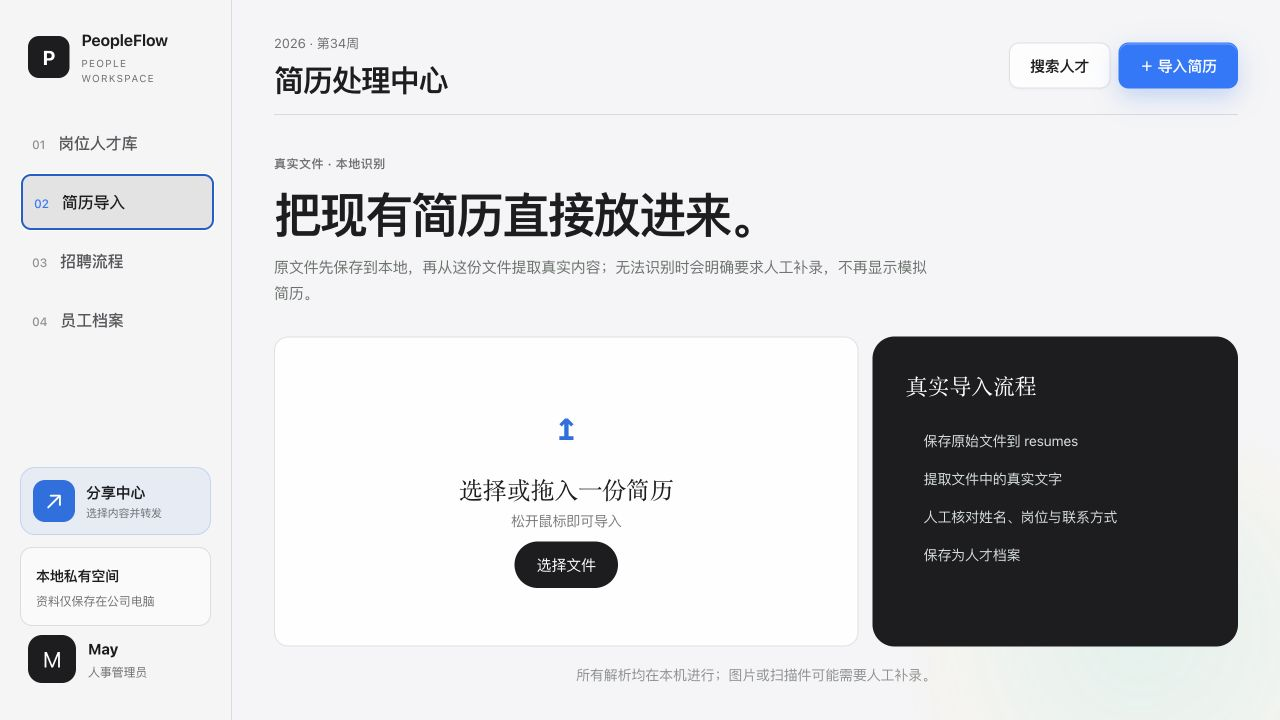
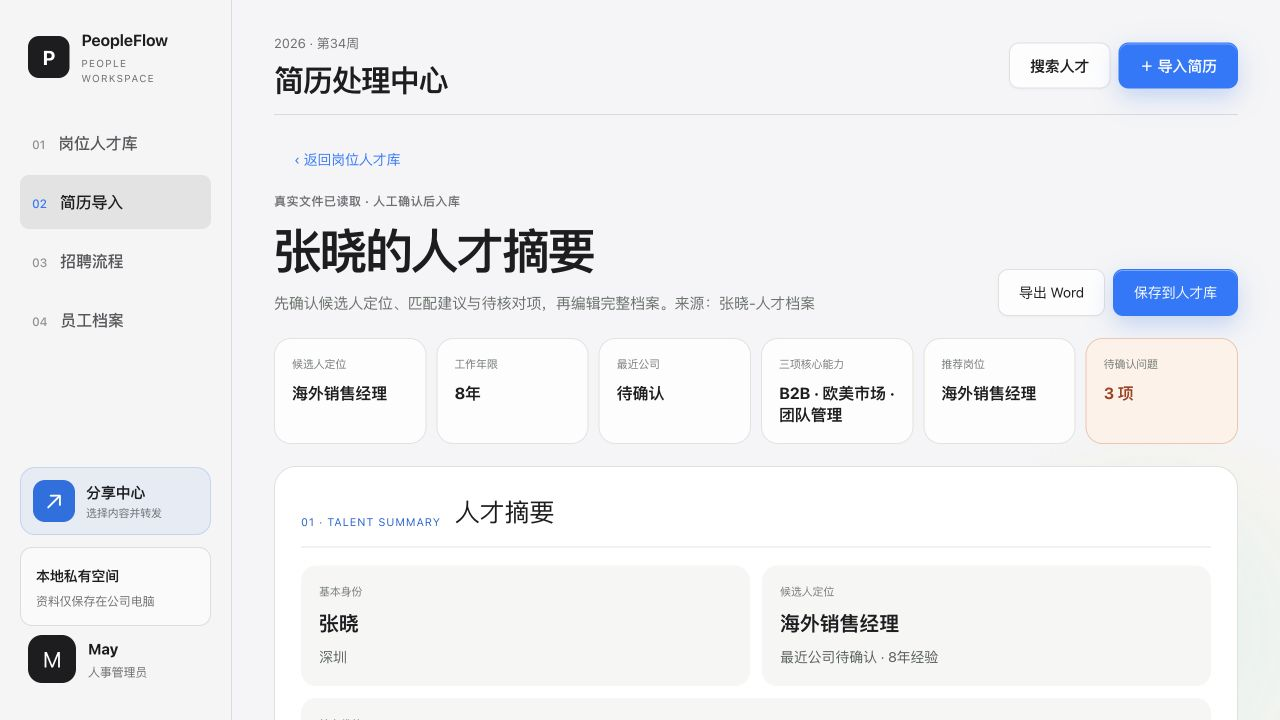
Prioritize resume review decisions and add home navigation

diff --git a/app/preview-v2.css b/app/preview-v2.css
@@ -2,9 +2,13 @@
 .v2-job-creator{width:min(720px,100%);background:rgba(250,250,247,.97);backdrop-filter:blur(28px);border:1px solid rgba(255,255,255,.86);border-radius:28px;box-shadow:0 34px 90px rgba(8,20,14,.28);padding:32px;box-sizing:border-box}.v2-job-creator>header{display:flex;justify-content:space-between;align-items:flex-start}.v2-job-creator h2{font:500 38px/1.08 Georgia,"Songti SC",serif;margin:8px 0}.v2-job-creator header p{margin:0;color:#707771;font-size:14px}.v2-job-creator-form{display:grid;grid-template-columns:1fr 1fr;gap:14px;margin-top:26px}.v2-job-creator-form label{font-size:13px;font-weight:700;color:#525a54}.v2-job-creator-form label.wide{grid-column:1/-1}.v2-job-creator-form input,.v2-job-creator-form select{display:block;width:100%;min-height:48px;box-sizing:border-box;border:1px solid #d4d8d4;border-radius:13px;background:#fff;padding:0 14px;margin-top:8px;font-size:15px;outline:0}.v2-job-creator-form input:focus,.v2-job-creator-form select:focus{border-color:#174c3a;box-shadow:0 0 0 3px rgba(23,76,58,.1)}.v2-job-preview{display:grid;gap:6px;margin-top:20px;padding:18px;border-radius:16px;background:#e9efeb;border:1px solid #d5ded8}.v2-job-preview small{font-size:11px;color:#667069}.v2-job-preview b{font:500 22px Georgia,"Songti SC",serif}.v2-job-preview span{font-size:13px;color:#626b65}.v2-job-creator>footer{display:flex;justify-content:flex-end;gap:10px;border-top:1px solid #dcdfdc;margin-top:24px;padding-top:20px}.v2-job-creator>footer button{min-height:44px;border:1px solid #d1d5d1;background:#fff;border-radius:22px;padding:0 20px;font-size:14px;font-weight:700}.v2-job-creator>footer button.dark{background:#174c3a;color:#fff;border-color:#174c3a}.v2-job-creator>footer button:disabled{opacity:.4}
 .v2-overlay.search{background:rgba(34,39,45,.38);backdrop-filter:blur(14px) saturate(120%);-webkit-backdrop-filter:blur(14px) saturate(120%)}.v2-job-creator{background:linear-gradient(145deg,rgba(255,255,255,.86),rgba(246,248,251,.72));backdrop-filter:blur(38px) saturate(160%);-webkit-backdrop-filter:blur(38px) saturate(160%);border:1px solid rgba(255,255,255,.92);box-shadow:0 32px 90px rgba(30,40,55,.18),inset 0 1px 0 rgba(255,255,255,.96);font-family:-apple-system,BlinkMacSystemFont,"SF Pro Display","PingFang SC","Microsoft YaHei",sans-serif}.v2-job-creator h2{font-family:inherit;font-weight:650;letter-spacing:-.04em}.v2-job-creator .eyebrow{color:#6e6e73}.v2-job-creator-form input{background:rgba(255,255,255,.68);border-color:rgba(60,60,67,.14);box-shadow:inset 0 1px 0 rgba(255,255,255,.8)}.v2-job-creator-form input:focus{border-color:rgba(0,113,227,.58);box-shadow:0 0 0 4px rgba(0,113,227,.10)}.v2-color-picker{grid-column:1/-1;border:0;padding:0;margin:0}.v2-color-picker legend{font-size:13px;font-weight:700;color:#525a54;margin-bottom:10px}.v2-color-picker>div{display:grid;grid-template-columns:repeat(8,1fr);gap:8px}.v2-color-picker button{display:grid;place-items:center;gap:7px;min-height:68px;border:1px solid rgba(60,60,67,.10);border-radius:14px;background:rgba(255,255,255,.52);color:#5f6368;font-size:11px}.v2-color-picker button:hover{background:rgba(255,255,255,.82)}.v2-color-picker button.selected{border-color:rgba(0,113,227,.62);box-shadow:0 0 0 3px rgba(0,113,227,.10);background:rgba(255,255,255,.9);color:#1d1d1f}.v2-color-picker i{width:24px;height:24px;border-radius:50%;box-shadow:inset 0 0 0 1px rgba(0,0,0,.08)}.v2-color-picker .graphite i{background:#636366}.v2-color-picker .blue i{background:#0a84ff}.v2-color-picker .sky i{background:#64d2ff}.v2-color-picker .mint i{background:#63e6be}.v2-color-picker .lime i{background:#30d158}.v2-color-picker .gold i{background:#ffd60a}.v2-color-picker .coral i{background:#ff9f0a}.v2-color-picker .violet i{background:#bf5af2}.v2-job-preview{position:relative;overflow:hidden;background:rgba(255,255,255,.54);border-color:rgba(60,60,67,.10);padding-left:23px}.v2-job-preview:before{content:"";position:absolute;left:0;top:0;bottom:0;width:5px;background:#636366}.v2-job-preview.blue:before{background:#0a84ff}.v2-job-preview.sky:before{background:#64d2ff}.v2-job-preview.mint:before{background:#63e6be}.v2-job-preview.lime:before{background:#30d158}.v2-job-preview.gold:before{background:#ffd60a}.v2-job-preview.coral:before{background:#ff9f0a}.v2-job-preview.violet:before{background:#bf5af2}.v2-job-creator>footer button{background:rgba(255,255,255,.66);border-color:rgba(60,60,67,.14)}.v2-job-creator>footer button.dark{background:#1d1d1f;border-color:#1d1d1f}.v2-job-creator>footer button.dark:disabled{background:#d1d1d6;border-color:#d1d1d6;color:#fff;opacity:1}.v2-job.graphite:before{background:#636366}.v2-job.sky:before{background:#64d2ff}.v2-job.mint:before{background:#63e6be}.v2-job.gold:before{background:#ffd60a}.v2-job.violet:before{background:#bf5af2}@media(max-width:760px){.v2-color-picker>div{grid-template-columns:repeat(4,1fr)}}
 .v2-real-drop.dragging{border-color:#d84b11;background:#fff2e9;transform:scale(1.01);box-shadow:0 12px 35px rgba(216,75,17,.16)}
+.v2-brand{width:100%;border:0;background:transparent;text-align:left;cursor:pointer;color:inherit}.v2-brand:hover strong{color:#0a66d8}.v2-brand:focus-visible{outline:3px solid rgba(10,102,216,.22);outline-offset:6px;border-radius:12px}
 .v2-resume-start{max-width:1050px;margin:35px auto}.v2-resume-copy{max-width:660px}.v2-resume-copy h2,.v2-editor-head h2,.v2-pipeline-intro h2,.v2-empty h2{font:500 48px/1.08 Georgia,"Songti SC",serif;margin:14px 0}.v2-resume-copy p,.v2-editor-head p,.v2-pipeline-intro p,.v2-empty p{color:#687069;line-height:1.75}.v2-import-card{display:grid;grid-template-columns:1.6fr 1fr;gap:14px;margin-top:30px}.v2-real-drop{min-height:310px;border:2px dashed #a9aea9;border-radius:22px;background:white;display:flex;flex-direction:column;justify-content:center;align-items:center;text-align:center;cursor:pointer}.v2-real-drop input{display:none}.v2-real-drop>b{font-size:40px;color:#d84b11}.v2-real-drop h3{font:500 24px Georgia,"Songti SC",serif;margin:17px 0 5px}.v2-real-drop p{font-size:11px;color:#777}.v2-real-drop span{background:#111;color:#fff;border-radius:25px;padding:12px 22px;margin-top:10px}.v2-file-ready{background:#173f32;color:white;border-radius:22px;padding:33px}.v2-file-ready b{font:500 22px Georgia,"Songti SC",serif}.v2-file-ready ul{padding-left:18px;margin-top:30px}.v2-file-ready li{margin:17px 0;font-size:12px;color:#d7e1dc}.v2-privacy{display:block;text-align:center;color:#8b918c;margin-top:18px}
 .v2-real-drop.busy{pointer-events:none;opacity:.72}.v2-import-error,.v2-parse-warning{margin-top:14px;border:1px solid #f2c5b7;background:#fff1ec;color:#a73512;border-radius:14px;padding:13px 16px;font-size:11px}.v2-paper.actual{overflow:auto}.v2-paper.actual>pre{white-space:pre-wrap;word-break:break-word;font:10px/1.65 -apple-system,BlinkMacSystemFont,"PingFang SC",sans-serif;margin-top:22px}.v2-form-grid textarea{min-height:150px}
 .v2-editor-page{max-width:1200px;margin:auto}.v2-editor-head{display:flex;justify-content:space-between;align-items:end;margin-bottom:22px}.v2-editor-head>div:last-child{display:flex;gap:8px}.v2-editor-head button,.v2-tag-drawer footer button{border:1px solid var(--v2-line);background:white;border-radius:25px;padding:12px 20px}.v2-editor-head .dark,.v2-tag-drawer .dark{background:#111;color:#fff;border-color:#111}.v2-editor-grid{display:grid;grid-template-columns:300px 1fr;gap:16px}.v2-original{background:#1c211e;color:#fff;border-radius:20px;padding:24px}.v2-original>small{letter-spacing:.12em;color:#b5bcb7}.v2-paper{background:#f5f1e8;color:#171917;min-height:560px;margin-top:16px;padding:30px 25px;box-shadow:0 13px 30px rgba(0,0,0,.22)}.v2-paper>b{font:500 28px Georgia,"Songti SC",serif}.v2-paper p{font-size:11px;line-height:1.7}.v2-paper h4{margin-top:25px}.v2-paper hr{border:0;border-top:1px solid #bbb8b0;margin:25px 0}.v2-form{background:#fff;border-radius:20px;padding:27px}.v2-form-title{display:flex;justify-content:space-between;align-items:center;border-bottom:1px solid var(--v2-line);padding-bottom:18px}.v2-form-title h3{margin:0;font:500 25px Georgia,"Songti SC",serif}.v2-form-title span{font-size:10px;background:#dce9e2;border-radius:20px;padding:7px 10px}.v2-form-grid{display:grid;grid-template-columns:1fr 1fr;gap:15px;margin-top:22px}.v2-form-grid label{font-size:10px;color:#6c736e}.v2-form-grid input,.v2-form-grid select,.v2-form-grid textarea{display:block;width:100%;box-sizing:border-box;border:1px solid #d6d9d5;border-radius:10px;background:#fafaf8;padding:12px;margin-top:7px;color:#151815;font:inherit}.v2-form-grid textarea{min-height:82px;resize:vertical}.v2-form-grid .wide{grid-column:1/-1}.v2-selected-tags{display:flex;justify-content:space-between;align-items:end;border-top:1px solid var(--v2-line);margin-top:22px;padding-top:20px}.v2-selected-tags small{color:#727873}.v2-selected-tags div div{display:flex;gap:6px;margin-top:10px}.v2-selected-tags span{background:#dce9e2;border-radius:15px;padding:7px 10px;font-size:10px}.v2-selected-tags>button{border:1px solid #cdd1cd;background:white;border-radius:20px;padding:10px 14px}
+.v2-review-summary{display:grid;grid-template-columns:repeat(6,minmax(0,1fr));gap:10px;margin:18px 0 22px}.v2-review-summary article{min-height:94px;padding:17px;border:1px solid #dfe3df;border-radius:17px;background:rgba(255,255,255,.84);box-sizing:border-box}.v2-review-summary small,.v2-review-summary b{display:block}.v2-review-summary small{font-size:11px;color:#737b75}.v2-review-summary b{margin-top:10px;font-size:16px;line-height:1.35}.v2-review-summary .attention{background:#fff1e9;border-color:#f1c4b1;color:#a63b16}.v2-review-summary .complete{background:#eaf3ee;color:#174c3a}.v2-review-section{margin-top:16px;padding:26px;border:1px solid #dde1dd;border-radius:22px;background:#fff}.v2-review-section>header{display:flex;align-items:end;gap:14px;border-bottom:1px solid #e1e4e1;padding-bottom:16px;margin-bottom:18px}.v2-review-section>header small{color:#0a66d8;font-size:11px;letter-spacing:.08em}.v2-review-section>header h3{font-size:25px;margin:0}.v2-review-section>header>span{margin-left:auto;font-size:12px;color:#a63b16}.v2-identity-grid{display:grid;grid-template-columns:1fr 1fr;gap:12px}.v2-identity-grid>div{padding:18px;border-radius:15px;background:#f6f7f5}.v2-identity-grid .wide{grid-column:1/-1}.v2-identity-grid span,.v2-identity-grid b{display:block}.v2-identity-grid span{font-size:11px;color:#747c76}.v2-identity-grid b{font-size:20px;margin-top:8px}.v2-identity-grid p{font-size:14px;line-height:1.6;margin:8px 0 0;color:#545d56}.v2-skill-pills{display:flex;gap:8px;flex-wrap:wrap}.v2-skill-pills i{font-style:normal;background:#dfe9e4;color:#174c3a;border-radius:16px;padding:7px 11px;font-size:12px;font-weight:700}.v2-match-card{display:grid;grid-template-columns:.8fr 1.2fr 1.2fr;gap:12px}.v2-match-card>div{padding:18px;border-radius:15px;background:#f5f6f4}.v2-match-card>div:first-child{background:#18201c;color:#fff}.v2-match-card small,.v2-match-card strong,.v2-match-card span,.v2-match-card b{display:block}.v2-match-card strong{font-size:28px;margin:10px 0}.v2-match-card span{font-size:12px;color:#cad4ce}.v2-match-card b{font-size:14px}.v2-match-card p{font-size:13px;line-height:1.7;color:#59615b}.v2-experience-list{display:grid;gap:10px}.v2-experience-list article{display:grid;grid-template-columns:38px 1fr;gap:12px;padding:16px;border-radius:14px;background:#f6f7f5}.v2-experience-list span{color:#0a66d8;font-weight:800}.v2-experience-list p,.v2-education-summary p{white-space:pre-wrap;font-size:13px;line-height:1.75;margin:0;color:#4f5851}.v2-education-summary{margin-top:12px;padding:16px;border-left:4px solid #173f32;background:#eef2ef}.v2-education-summary small{display:block;margin-bottom:8px;color:#6a726c}.v2-risk-list{display:grid;grid-template-columns:1fr 1fr;gap:9px}.v2-risk-list p{display:flex;gap:10px;align-items:flex-start;padding:13px;margin:0;border-radius:13px;background:#fff3ed;color:#8f3415;font-size:13px;line-height:1.5}.v2-risk-list b{display:grid;place-items:center;flex:0 0 22px;height:22px;border-radius:50%;background:#d84b11;color:#fff}.v2-risk-list .clear{grid-column:1/-1;background:#eaf3ee;color:#174c3a}.v2-risk-list .clear b{background:#174c3a}.v2-full-profile{margin-top:16px;border:1px solid #dce0dc;border-radius:22px;background:#fff;overflow:hidden}.v2-full-profile>summary{display:grid;grid-template-columns:auto 1fr auto;gap:12px;align-items:center;padding:22px 26px;cursor:pointer;list-style:none}.v2-full-profile>summary::-webkit-details-marker{display:none}.v2-full-profile>summary span{font-size:11px;color:#0a66d8}.v2-full-profile>summary b{font-size:22px}.v2-full-profile>summary em{font-style:normal;font-size:12px;color:#717973}.v2-full-profile>.v2-form{border-top:1px solid #e0e3e0;border-radius:0}.v2-save-panel{display:flex;justify-content:space-between;align-items:center;gap:24px;margin-top:16px;padding:25px 28px;border-radius:22px;background:#18201c;color:#fff}.v2-save-panel small{color:#91b5a5}.v2-save-panel h3{font-size:24px;margin:6px 0}.v2-save-panel p{font-size:13px;color:#bdc9c2;margin:0}.v2-save-panel button{white-space:nowrap;border:0;border-radius:24px;background:#0a66d8;color:#fff;padding:13px 20px;font-weight:800}
+@media(max-width:1100px){.v2-review-summary{grid-template-columns:repeat(3,1fr)}.v2-match-card{grid-template-columns:1fr 1fr}.v2-match-card>div:first-child{grid-column:1/-1}}
+@media(max-width:700px){.v2-review-summary{grid-template-columns:1fr 1fr}.v2-identity-grid,.v2-match-card,.v2-risk-list{grid-template-columns:1fr}.v2-identity-grid .wide,.v2-risk-list .clear{grid-column:auto}.v2-review-section{padding:20px}.v2-review-section>header{display:block}.v2-review-section>header h3{margin-top:6px}.v2-review-section>header>span{display:block;margin:8px 0 0}.v2-full-profile>summary{grid-template-columns:1fr}.v2-save-panel{display:block}.v2-save-panel button{width:100%;margin-top:18px}}
 .v2-tag-drawer{background:#f8f7f2;width:min(570px,100%);height:100%;padding:45px;position:relative;box-sizing:border-box}.v2-tag-drawer h2{font:500 39px Georgia,"Songti SC",serif;margin:12px 0}.v2-tag-drawer>p{font-size:12px;color:#707771;line-height:1.7}.v2-tag-options{display:flex;gap:9px;flex-wrap:wrap;margin:30px 0}.v2-tag-options button{border:1px solid #ccd0cc;background:white;border-radius:22px;padding:11px 14px}.v2-tag-options button.selected{background:#173f32;color:white;border-color:#173f32}.v2-new-tag{display:flex;gap:8px;border-top:1px solid #d8dad6;padding-top:25px}.v2-new-tag input{flex:1;border:1px solid #cdd1cd;border-radius:11px;padding:13px}.v2-new-tag button{border:0;background:#e5a63c;border-radius:11px;padding:0 16px}.v2-tag-drawer footer{position:absolute;left:45px;right:45px;bottom:40px;display:flex;justify-content:space-between;align-items:center;border-top:1px solid #ddd;padding-top:20px;font-size:11px}.v2-toast{position:fixed;right:30px;bottom:30px;background:#173f32;color:#fff;border-radius:12px;padding:16px 22px;z-index:80;box-shadow:0 14px 35px rgba(0,0,0,.22)}
 .v2-overlay.search{align-items:flex-start;justify-content:center;padding:6vh 24px;overflow:auto}.v2-search-panel{width:min(1040px,100%);max-height:88vh;overflow:hidden;background:rgba(250,250,247,.96);backdrop-filter:blur(28px);border:1px solid rgba(255,255,255,.8);border-radius:28px;box-shadow:0 34px 90px rgba(8,20,14,.28);padding:30px;box-sizing:border-box}.v2-search-panel>header{display:flex;justify-content:space-between;align-items:flex-start}.v2-search-panel h2{font:500 38px/1.05 Georgia,"Songti SC",serif;margin:8px 0}.v2-search-panel header p{margin:0;color:#707771;font-size:12px}.v2-search-box{display:flex;align-items:center;gap:12px;background:#fff;border:1px solid #d8dcd8;border-radius:18px;padding:8px 12px;margin-top:24px;box-shadow:0 7px 22px rgba(20,35,27,.06)}.v2-search-box>span{font-size:26px;color:#59625c}.v2-search-box input{flex:1;min-width:0;border:0;outline:0;background:transparent;padding:12px 0;font-size:16px;color:#151815}.v2-search-box button{border:0;background:#eef0ec;border-radius:13px;padding:9px 13px;color:#5d655f}.v2-search-stages{display:flex;gap:7px;flex-wrap:wrap;margin:15px 0}.v2-search-stages button{border:1px solid #d8dcd8;background:#fff;border-radius:16px;padding:8px 12px;font-size:10px}.v2-search-stages button.active{background:#173f32;border-color:#173f32;color:#fff}.v2-search-summary{display:flex;align-items:baseline;gap:7px;border-top:1px solid #dfe1dd;padding:15px 2px 10px}.v2-search-summary b{font:500 26px Georgia}.v2-search-summary span{font-size:11px}.v2-search-summary small{margin-left:auto;color:#747c76}.v2-search-results{max-height:50vh;overflow:auto;border-top:1px solid #e1e3df}.v2-search-results>button{display:grid;width:100%;grid-template-columns:42px minmax(230px,1.4fr) minmax(170px,1fr) auto auto;gap:14px;align-items:center;text-align:left;border:0;border-bottom:1px solid #e1e3df;background:transparent;padding:15px 5px;transition:.18s}.v2-search-results>button:hover{background:#fff;padding-left:12px;padding-right:12px}.v2-search-results .avatar{display:grid;place-items:center;width:38px;height:38px;border-radius:50%;background:#e98b63;font-weight:700}.v2-search-results .identity b,.v2-search-results .identity small{display:block}.v2-search-results .identity b{font-size:15px}.v2-search-results .identity small{color:#777f79;font-size:9px;margin-top:4px}.v2-search-results .identity p{color:#5f6761;font-size:9px;margin:6px 0 0;white-space:nowrap;overflow:hidden;text-overflow:ellipsis}.v2-search-results .tags{display:flex;gap:5px;flex-wrap:wrap}.v2-search-results .tags span{background:#edf0ec;border-radius:11px;padding:5px 7px;font-size:8px}.v2-search-results em{font-style:normal;background:#dce9e2;color:#173f32;border-radius:13px;padding:6px 9px;font-size:8px;white-space:nowrap}.v2-search-results strong{font-size:10px;white-space:nowrap}.v2-search-empty{text-align:center;padding:55px 20px}.v2-search-empty b{font:500 23px Georgia,"Songti SC",serif}.v2-search-empty p{color:#777f79;font-size:11px}
 .v2-pipeline-intro{max-width:650px;margin:25px 0}.v2-board{display:grid;grid-template-columns:repeat(6,minmax(190px,1fr));gap:10px;overflow-x:auto;padding-bottom:15px}.v2-column{background:#e7e8e3;border-radius:15px;padding:12px;min-height:440px}.v2-column>header{display:flex;justify-content:space-between;padding:7px 4px 14px}.v2-column>header b{font-size:12px}.v2-column>header span{background:#fff;border-radius:12px;padding:3px 7px;font-size:9px}.v2-column article{background:#fff;border-radius:12px;padding:13px;margin-bottom:9px}.v2-column article>div{display:flex;align-items:center;gap:8px}.v2-column article>div span{display:grid;place-items:center;width:29px;height:29px;border-radius:50%;background:#e98b63}.v2-column article small{display:block;color:#8a908b;font-size:8px;margin:12px 0 4px}.v2-column article p{font-size:10px;line-height:1.45;min-height:28px}.v2-column article button,.v2-add-card{border:0;background:transparent;text-decoration:underline;font-size:9px;padding:0}.v2-add-card{width:100%;border:1px dashed #aeb3ae;border-radius:10px;padding:10px;text-decoration:none;color:#747b75}.v2-empty{max-width:700px;margin:80px auto;background:#fff;border-radius:25px;padding:55px;text-align:center}.v2-empty>span{display:grid;place-items:center;width:55px;height:55px;margin:auto;border-radius:50%;background:#f1c962;font:700 16px Georgia}.v2-empty button{border:0;background:#111;color:white;border-radius:26px;padding:13px 22px;margin-top:20px}

diff --git a/app/preview/page.tsx b/app/preview/page.tsx
@@ -894,13 +894,21 @@ export default function PreviewV2() {
   return (
     <main className="v2-shell">
       <aside className="v2-sidebar">
-        <div className="v2-brand">
+        <button
+          className="v2-brand"
+          aria-label="返回岗位人才库首页"
+          onClick={() => {
+            setEditing(false);
+            setView("jobs");
+            setStage("全部");
+          }}
+        >
           <span>P</span>
           <div>
             <strong>PeopleFlow</strong>
             <small>PEOPLE WORKSPACE</small>
           </div>
-        </div>
+        </button>
         <nav>
           <button
             className={view === "jobs" ? "active" : ""}
@@ -1908,43 +1916,84 @@ function ResumeEditor({
     link.click();
     URL.revokeObjectURL(url);
   };
+  const skillHighlights = Array.from(
+    new Set([
+      ...selectedTags,
+      ...draft.skillsText.split(/[、，,;\n]/).map((item) => item.trim()).filter(Boolean),
+    ]),
+  ).slice(0, 5);
+  const riskItems = [
+    !draft.name || draft.name === "待确认姓名" ? "姓名未完整识别" : "",
+    !draft.phone ? "手机号未识别" : "",
+    !draft.email ? "邮箱未识别" : "",
+    !draft.city ? "所在城市未确认" : "",
+    !draft.years ? "未找到明确的工作年限" : "工作年限由系统提取，请人工核对",
+    !draft.education ? "教育背景或毕业时间未识别" : "",
+    draft.parseWarning || "",
+  ].filter(Boolean);
+  const experienceHighlights = draft.experience
+    .split(/\n{2,}|(?=\n[^\n]{2,24}(?:公司|集团|科技|有限))/)
+    .map((item) => item.trim())
+    .filter(Boolean)
+    .slice(0, 3);
+  const matchLevel = riskItems.length <= 2 ? "较匹配" : "待确认";
   return (
     <section className="v2-editor-page">
       <div className="v2-editor-head">
         <div>
           <button className="v2-editor-back" onClick={onExit}>‹ {exitLabel}</button>
-          <span className="eyebrow">真实文件已读取 · 请人工检查</span>
-          <h2>{draft.name || "待补录姓名"}的简历</h2>
-          <p>
-            来源文件：{draft.fileName}。左侧为实际提取文字，右侧字段均可修改。
-          </p>
+          <span className="eyebrow">真实文件已读取 · 人工确认后入库</span>
+          <h2>{draft.name || "待补录姓名"}的人才摘要</h2>
+          <p>先确认候选人定位、匹配建议与待核对项，再编辑完整档案。来源：{draft.fileName}</p>
         </div>
         <div>
           <button onClick={exportWord}>导出 Word</button>
-          <button className="dark" onClick={() => saved(draft)}>
-            保存简历
-          </button>
+          <button className="dark" onClick={() => saved(draft)}>保存到人才库</button>
         </div>
       </div>
-      {draft.parseWarning && (
-        <div className="v2-parse-warning">{draft.parseWarning}</div>
-      )}
-      <div className="v2-editor-grid">
-        <aside className="v2-original">
-          <small>原文件提取内容</small>
-          <div className="v2-paper actual">
-            <b>{draft.fileName}</b>
-            <pre>
-              {draft.rawText ||
-                "当前文件没有可提取文字。原文件已经保存，请根据原文件在右侧人工录入。"}
-            </pre>
-          </div>
-        </aside>
+      <div className="v2-review-summary">
+        <article><small>候选人定位</small><b>{draft.job || "待确认岗位"}</b></article>
+        <article><small>工作年限</small><b>{draft.years ? `${draft.years}年` : "待确认"}</b></article>
+        <article><small>最近公司</small><b>{draft.company || "待确认"}</b></article>
+        <article><small>三项核心能力</small><b>{skillHighlights.slice(0, 3).join(" · ") || "待提炼"}</b></article>
+        <article><small>推荐岗位</small><b>{draft.job || "待匹配"}</b></article>
+        <article className={riskItems.length ? "attention" : "complete"}><small>待确认问题</small><b>{riskItems.length} 项</b></article>
+      </div>
+
+      <section className="v2-review-section identity">
+        <header><small>01 · TALENT SUMMARY</small><h3>人才摘要</h3></header>
+        <div className="v2-identity-grid">
+          <div><span>基本身份</span><b>{draft.name || "待确认姓名"}</b><p>{[draft.city, draft.phone, draft.email].filter(Boolean).join(" · ") || "联系方式待补充"}</p></div>
+          <div><span>候选人定位</span><b>{draft.job || "待确认岗位"}</b><p>{draft.company || "最近公司待确认"}{draft.years ? ` · ${draft.years}年经验` : ""}</p></div>
+          <div className="wide"><span>核心优势</span><p className="v2-skill-pills">{skillHighlights.length ? skillHighlights.map((skill) => <i key={skill}>{skill}</i>) : "待从简历与面试中提炼"}</p></div>
+        </div>
+      </section>
+
+      <section className="v2-review-section match">
+        <header><small>02 · MATCHING</small><h3>岗位匹配建议</h3></header>
+        <div className="v2-match-card">
+          <div><small>规则初判</small><strong>{matchLevel}</strong><span>建议岗位：{draft.job || "待选择"}</span></div>
+          <div><b>为什么匹配</b><p>{skillHighlights.length ? `已识别 ${skillHighlights.slice(0, 3).join("、")} 等与岗位相关的经验信号。` : "尚未提取足够能力信号，需人工判断。"}</p></div>
+          <div><b>明显缺口</b><p>{riskItems.slice(0, 2).join("；") || "暂未发现必填信息缺口，仍需面试验证。"}</p></div>
+        </div>
+      </section>
+
+      <section className="v2-review-section experience">
+        <header><small>03 · EXPERIENCE</small><h3>关键经历</h3></header>
+        <div className="v2-experience-list">
+          {(experienceHighlights.length ? experienceHighlights : ["未找到可靠的工作经历，请打开完整档案补录。"]).map((item, index) => <article key={`${index}-${item.slice(0, 12)}`}><span>0{index + 1}</span><p>{item}</p></article>)}
+        </div>
+        <div className="v2-education-summary"><small>最高教育背景</small><p>{draft.education || "学历、学校、专业或毕业时间待补充。"}</p></div>
+      </section>
+
+      <section className="v2-review-section risks">
+        <header><small>04 · HUMAN REVIEW</small><h3>风险与待确认项</h3><span>{riskItems.length} 项需要人工处理</span></header>
+        <div className="v2-risk-list">{riskItems.length ? riskItems.map((item, index) => <p key={`${index}-${item}`}><b>!</b><span>{item}</span></p>) : <p className="clear"><b>✓</b><span>必填字段已识别，请根据原始简历完成最终核对。</span></p>}</div>
+      </section>
+
+      <details className="v2-full-profile" open>
+        <summary><span>05 · EDITABLE PROFILE</span><b>完整可编辑档案</b><em>展开 / 收起</em></summary>
         <div className="v2-form">
-          <div className="v2-form-title">
-            <h3>标准人才档案</h3>
-            <span>{draft.rawText ? "来自真实文件" : "待人工补录"}</span>
-          </div>
           <div className="v2-form-grid">
             <label>
               姓名
@@ -2069,7 +2118,7 @@ function ResumeEditor({
               />
             </label>
             <details className="wide v2-raw-details">
-              <summary>查看和校对原始提取文字</summary>
+              <summary>查看原始提取文字（仅作核对证据）</summary>
               <textarea
                 value={draft.rawText}
                 onChange={(event) => update("rawText", event.target.value)}
@@ -2088,7 +2137,12 @@ function ResumeEditor({
             <button onClick={openTags}>管理标签 ＋</button>
           </div>
         </div>
-      </div>
+      </details>
+
+      <section className="v2-save-panel">
+        <div><small>06 · SAVE</small><h3>确认入库设置</h3><p>保存前请确认匹配岗位、初始阶段、人才标签和待核对问题。</p></div>
+        <button className="dark" onClick={() => saved(draft)}>保存到人才库</button>
+      </section>
     </section>
   );
 }
